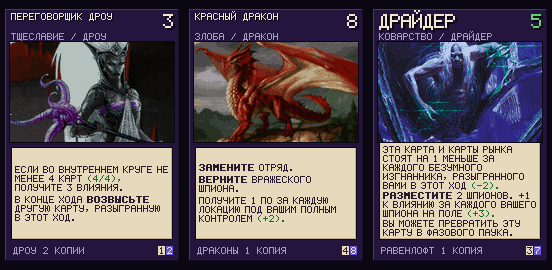
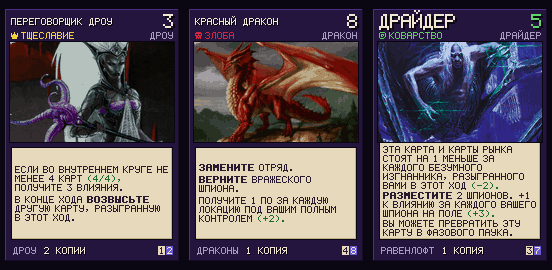
Stage L10n-2 fix: preserve original card layout in Russian

diff --git a/Codex outputs/localization/layout_fix.md b/Codex outputs/localization/layout_fix.md
@@ -1,0 +1,19 @@
+# Исправление макета после L10n-2
+
+Дата: 2026-11-06. Владелец указал, что прототип перевода изменил макет карт.
+
+В первом русском слое была ошибочно упрощена строка под названием: пропал значок аспекта, цветной аспект и раса заменились общей серой строкой с разделителем. Однострочные заголовки размера 1× стояли выше исходной позиции; число копий потеряло своё отдельное оформление. Это не требовалось для перевода.
+
+Исправлено:
+
+- Значок и название аспекта снова слева, в исходном цвете. Раса снова справа.
+- Размер и позиции заголовка определяет общий header_name_layout, используемый и исходным генератором, и русским слоем: 2× в (7,6), короткая строка 1× в (7,10), две строки 1× в (7,3)/(7,13).
+- Малые имена используют исходный wrap_name с двумя строками у колонки стоимости и свободной третьей строкой.
+- Название полуколоды и число копий снова рисуются отдельно, с исходными цветами, тенью и промежутком. Число копий берётся из half_decks.json, а не дублируется в русском тексте.
+- Исправление заглавной Й и переводы сохранены.
+
+Проверка: localization_cards.gd — 285 пройдено, 0 провалено. В том числе восстановленный английский заголовок сравнивается пиксель в пиксель с исходными PNG всех восьми прототипов. Проверены сохранение арта/ПО, английских растров и русские лица. Сценарий localization_match.gd — 7 проверок, 0 провалов. Просмотрены обновлённые изображения карточек.
+
+Полный прогон правил и сети повторно не запускался: исправление затрагивает только оформление текста и переиспользование чистых функций компоновки. Их предыдущие результаты для L10n-2 — 2269/0 и 168/0.
+
+Обновлены stage2_cards_ru.png, stage2_live_ru.png и stage2_match_ru.png. Требование сохранять макет записано в языковые правила и план.

diff --git a/Codex outputs/localization/language_policy_ru.md b/Codex outputs/localization/language_policy_ru.md
@@ -30,6 +30,8 @@
 
 ## Вёрстка и символы
 
+- Макет карт сохраняется: значки, цвета аспектов, расположение расы, заголовка и числа копий берутся из исходного оформления. Локализация заменяет текст и использует исходные правила его компоновки.
+
 - Сохранять пиксельный стиль. Регистр задаётся дизайном: в коде не хранить отдельные копии переводов только ради uppercase.
 - Использовать Ё там, где она нужна; проверить обе формы регистра и все 33 буквы в используемых рендерерах.
 - Длинный текст сначала переформулировать без потери условий или расширить допустимую область. Не уменьшать шрифт до нечитаемого размера и не обрезать условия многоточием.

diff --git a/Codex outputs/localization/stage2.md b/Codex outputs/localization/stage2.md
@@ -2,6 +2,8 @@
 
 Дата: 2026-11-06 (Asia/Yekaterinburg). Этап выполнен.
 
+После замечания владельца исправлено отклонение русского слоя от исходного макета; см. layout_fix.md. Превью обновлены.
+
 ## Исправление Й
 
 Раньше Й и й имели одинаковые растровые строки: обе буквы выглядели строчными. У заглавной Й теперь полное семистрочное тело И, а дужка вынесена на две строки вверх. Строчная й сохраняет прежнее строчное начертание. Пересобраны pixel5.png/pixel5.fnt; генератор хранит соответствующее вертикальное смещение. Его учитывают прямой вывод PixelFont, карточный рендерер, варианты действий и мелкий шрифт поля.

diff --git a/Codex outputs/plan_localization_ru.md b/Codex outputs/plan_localization_ru.md
@@ -6,6 +6,7 @@
 ## Решения владельца
 
 - Русский добавляется к английскому.
+- Макет карт сохраняется: перевод текста не меняет значки, цвета и расположение элементов. Использовать исходные правила компоновки.
 - Обязательный переключатель English / Русский в настройках, доступных из главного меню и из партии. Выбор сохраняется локально.
 - Переключение обновляет интерфейс и карты без перезапуска и без сброса незавершённого игрового выбора.
 - Язык независим у каждого клиента одной сетевой партии.
